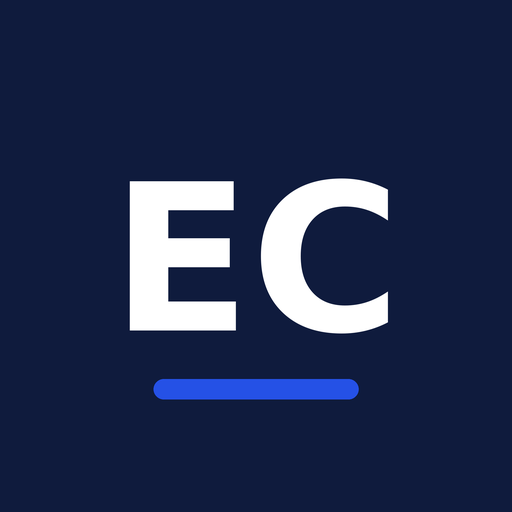
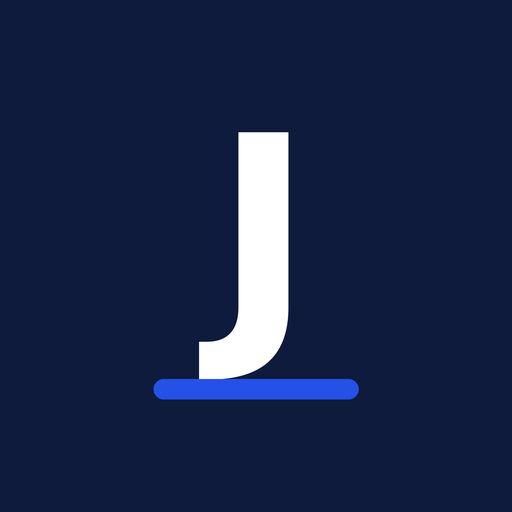
L'outil s'appelle désormais Jiminy
Claude-Session: https://claude.ai/code/session_01U839aDkMsdWj48hvDox9Xu

Changed region(s): [[0.25, 0.25, 0.7812, 0.75]]

diff --git a/index.html b/index.html
@@ -7,7 +7,7 @@
 <meta http-equiv="Content-Security-Policy" content="default-src 'none'; script-src 'self' 'unsafe-inline'; style-src 'unsafe-inline'; img-src 'self' data: blob:; manifest-src 'self'; connect-src 'none'; form-action 'none'; base-uri 'none'">
 <meta name="referrer" content="no-referrer">
 <meta name="theme-color" content="#0f1b3d">
-<meta name="apple-mobile-web-app-title" content="En clair">
+<meta name="apple-mobile-web-app-title" content="Jiminy">
 <meta name="apple-mobile-web-app-capable" content="yes">
 <link rel="manifest" href="manifest.webmanifest">
 <link rel="icon" href="app-icon-192.png" type="image/png">
@@ -15,7 +15,7 @@
 <script>window.EC_SITE=true;</script>
 <script src="icones.js"></script>
 
-<title>En clair · la vie numérique de vos enfants, expliquée</title>
+<title>Jiminy · la vie numérique de vos enfants, expliquée</title>
 <style>
 :root{
   /* Outil familial hors ligne : parcours guidé, cartes par enfant, fiches pratiques ; bleu ardoise + ambre signal */
@@ -1294,7 +1294,7 @@ function viewWizard(){
   var body="";
   if(UI.step===1){
     if(!S.kids.length) S.kids.push({id:uid("k"),name:"",year:"",month:"",color:COLORS[0]});
-    body='<div><span class="brand-mark big" aria-hidden="true">EC</span><h1>Bienvenue dans En clair</h1><p class="lead muted" style="margin-top:8px">La vie numérique de vos enfants, expliquée. Cet outil vous aide à suivre la vie numérique de vos enfants : ce qu\'ils utilisent, les réglages à faire, et des repères pour en parler avec eux. Tout reste sur cet ordinateur.</p></div>'+
+    body='<div><span class="brand-mark big" aria-hidden="true">J</span><h1>Bienvenue dans Jiminy</h1><p class="lead muted" style="margin-top:8px">La vie numérique de vos enfants, expliquée. Cet outil vous aide à suivre la vie numérique de vos enfants : ce qu\'ils utilisent, les réglages à faire, et des repères pour en parler avec eux. Tout reste sur cet ordinateur.</p></div>'+
       '<div class="card"><h2>Vos enfants</h2><p class="small muted">Le prénom et l\'année de naissance suffisent. L\'âge sert à adapter les conseils.</p>'+kidRows()+
       '<div class="toolbar"><button type="button" class="ghost" data-act="add-kid">Ajouter un enfant</button></div></div>'+
       '<div class="toolbar"><button type="button" data-act="w-next">Continuer</button><button type="button" class="quiet" data-act="import">J\'ai déjà un fichier de sauvegarde</button></div>';
@@ -1411,12 +1411,12 @@ function childBody(k, forExport){
 }
 function viewChild(){
   var k=kid(UI.child);
-  return '<div class="childmode" style="--kc:'+esc(k.color)+'"><header class="ctop"><div class="wrap ctop-row"><div class="brand"><span class="brand-mark" aria-hidden="true">EC</span><div><b>En clair</b><span class="small muted"> · l\'espace de '+esc(k.name)+'</span></div></div><button type="button" class="ghost" data-act="child-exit">Revenir à l\'espace parent</button></div></header><main class="wrap cmain">'+childBody(k,false)+'</main></div>';
+  return '<div class="childmode" style="--kc:'+esc(k.color)+'"><header class="ctop"><div class="wrap ctop-row"><div class="brand"><span class="brand-mark" aria-hidden="true">J</span><div><b>Jiminy</b><span class="small muted"> · l\'espace de '+esc(k.name)+'</span></div></div><button type="button" class="ghost" data-act="child-exit">Revenir à l\'espace parent</button></div></header><main class="wrap cmain">'+childBody(k,false)+'</main></div>';
 }
 function exportChild(k){
   var css=document.querySelector("style").textContent;
-  var html='<!DOCTYPE html>\n<html lang="fr"><head><meta charset="utf-8"><meta name="viewport" content="width=device-width, initial-scale=1"><title>En clair · l\'espace de '+esc(k.name)+'</title><style>'+css+'</style></head><body><div class="childmode" style="--kc:'+esc(k.color)+'"><header class="ctop"><div class="wrap ctop-row"><div class="brand"><span class="brand-mark" aria-hidden="true">EC</span><div><b>En clair</b><span class="small muted"> · l\'espace de '+esc(k.name)+'</span></div></div><span class="tiny muted">Mis à jour le '+esc(fmtDate(todayISO()))+'</span></div></header><main class="wrap cmain">'+childBody(k,true)+'</main></div></body></html>';
-  download("en-clair-espace-"+slug(k.name)+".html", html, "text/html");
+  var html='<!DOCTYPE html>\n<html lang="fr"><head><meta charset="utf-8"><meta name="viewport" content="width=device-width, initial-scale=1"><title>Jiminy · l\'espace de '+esc(k.name)+'</title><style>'+css+'</style></head><body><div class="childmode" style="--kc:'+esc(k.color)+'"><header class="ctop"><div class="wrap ctop-row"><div class="brand"><span class="brand-mark" aria-hidden="true">J</span><div><b>Jiminy</b><span class="small muted"> · l\'espace de '+esc(k.name)+'</span></div></div><span class="tiny muted">Mis à jour le '+esc(fmtDate(todayISO()))+'</span></div></header><main class="wrap cmain">'+childBody(k,true)+'</main></div></body></html>';
+  download("jiminy-espace-"+slug(k.name)+".html", html, "text/html");
 }
 function statusOpts(it){ return famOf(it)==="outil" ? [["","Non activé"],["utilise","Activé"]] : famOf(it)==="compte" ? STATUS_ACCT : STATUS; }
 function viewRituel(){
@@ -1444,7 +1444,7 @@ function viewCharte(){
     if(UI.chEdit) return '<div class="card"><label class="f" for="ch-'+key+'">'+title+' (un engagement par ligne)<textarea id="ch-'+key+'" rows="7">'+esc(c[key].join("\n"))+'</textarea></label></div>';
     return '<div class="card"><h3>'+title+'</h3><ol class="small">'+c[key].map(function(x){return '<li>'+esc(x)+'</li>';}).join("")+'</ol></div>';
   }
-  return '<section class="card"><div class="toolbar" style="justify-content:space-between"><div><h2>Notre charte numérique'+(S.family?' · '+esc(S.family):'')+'</h2><p class="tiny muted">Préparée avec En clair</p><p class="small muted">Une base à discuter et à réécrire ensemble, puis à signer et afficher.</p></div><div class="toolbar no-print">'+
+  return '<section class="card"><div class="toolbar" style="justify-content:space-between"><div><h2>Notre charte numérique'+(S.family?' · '+esc(S.family):'')+'</h2><p class="tiny muted">Préparée avec Jiminy</p><p class="small muted">Une base à discuter et à réécrire ensemble, puis à signer et afficher.</p></div><div class="toolbar no-print">'+
     (UI.chEdit?'<button type="button" data-act="ch-save">Enregistrer</button><button type="button" class="ghost" data-act="ch-cancel">Annuler</button>':'<button type="button" class="ghost" data-act="ch-edit">Modifier</button><button type="button" data-act="print">Imprimer</button>')+'</div></div></section>'+
   '<section class="charter">'+block("parent","Ce que je m'engage à faire, en tant que parent")+block("kids","Ce que je m'engage à faire, en tant qu'enfant")+block("common","Nos règles communes")+'</section>'+
   (UI.chEdit?'':'<section class="card"><p class="small">Signatures : '+S.kids.map(function(k){return esc(k.name)+' ____________';}).join(" · ")+' · Parent(s) ____________</p></section>');
@@ -1456,7 +1456,7 @@ function viewSauvegarde(){
   '<div class="card"><h2>Reprendre une sauvegarde</h2><p class="small">Ouvrez un fichier de sauvegarde créé avec cet outil.</p><div class="toolbar"><button type="button" class="ghost" data-act="import">Choisir le fichier</button></div>'+
     (UI.pendingImport?'<div class="banner" style="display:grid;gap:10px"><span class="small">Fichier « '+esc(UI.pendingImport.name)+' » : '+plural(UI.pendingImport.data.kids.length,"enfant")+', '+plural((UI.pendingImport.data.journal||[]).length,"point")+' au journal. Que faire ?</span><div class="toolbar"><button type="button" data-act="imp-replace">Remplacer mes données</button><button type="button" class="ghost" data-act="imp-merge">Ajouter à mes données</button><button type="button" class="quiet" data-act="imp-cancel">Annuler</button></div></div>':'')+
     (UI.msg?'<p class="small">'+esc(UI.msg)+'</p>':'')+'</div></section>'+
-  '<section class="grid g2"><div class="card"><h3>Où sont mes informations ?</h3><p class="small">Uniquement dans ce navigateur, sur cet ordinateur. Rien n\'est envoyé sur Internet. Si vous videz l\'historique du navigateur ou changez d\'ordinateur, il faudra reprendre votre sauvegarde.</p><p class="small">Sur iPhone ou iPad, Safari peut effacer les données d\'un site après quelques jours sans visite. Ajoutez En clair à l\'écran d\'accueil (bouton Partager › Sur l\'écran d\'accueil) et gardez une sauvegarde récente.</p></div>'+
+  '<section class="grid g2"><div class="card"><h3>Où sont mes informations ?</h3><p class="small">Uniquement dans ce navigateur, sur cet ordinateur. Rien n\'est envoyé sur Internet. Si vous videz l\'historique du navigateur ou changez d\'ordinateur, il faudra reprendre votre sauvegarde.</p><p class="small">Sur iPhone ou iPad, Safari peut effacer les données d\'un site après quelques jours sans visite. Ajoutez Jiminy à l\'écran d\'accueil (bouton Partager › Sur l\'écran d\'accueil) et gardez une sauvegarde récente.</p></div>'+
   '<div class="card"><h3>Vos ajouts à la bibliothèque</h3><p class="small">'+((S.custom||[]).length?plural(S.custom.length,"élément")+' ajouté'+(S.custom.length>1?'s':'')+' par vous : '+S.custom.map(function(c){return esc(c.name);}).join(", ")+'.':'Vous n\'avez encore rien ajouté. Une app manque ? « Créer un élément » dans la Bibliothèque.')+' Partagez-les avec un autre parent : il les reprend avec « Choisir le fichier », sans toucher à ses données.</p><div class="toolbar"><button type="button" class="ghost" data-act="export-cat"'+((S.custom||[]).length?'':' disabled')+'>Partager mes ajouts</button><button type="button" class="ghost" data-act="new-item">Ajouter un élément</button></div></div>'+
   '<div class="card"><h3>Icônes des applications</h3><p class="small">Ajoutez plusieurs icônes d\'un coup : nommez chaque image comme l\'élément (par exemple <code>whatsapp.png</code>, <code>instagram.png</code>, <code>nintendo-switch.png</code>), puis sélectionnez-les toutes.</p><div class="toolbar"><label class="btn ghost" for="icons-bulk">Importer des icônes<input type="file" id="icons-bulk" accept="image/*" multiple class="hide"></label>'+(Object.keys(S.icons||{}).length?'<span class="small muted">'+plural(Object.keys(S.icons).length,"icône")+' personnalisée'+(Object.keys(S.icons).length>1?'s':'')+'</span>':'')+'</div>'+(UI.iconMsg?'<p class="small">'+esc(UI.iconMsg)+'</p>':'')+'<details><summary class="small">Voir les noms de fichiers reconnus</summary><p class="tiny muted">'+allItems().map(function(it){return esc(it.id)+'.png';}).join(" · ")+'</p></details></div>'+
   '<div class="card"><h3>Repartir de zéro</h3><p class="small">Efface toutes les informations de cet ordinateur. Faites une sauvegarde avant.</p><div class="toolbar"><button type="button" class="danger" data-act="wipe">'+(UI.wipeArmed?'Confirmer l\'effacement':'Tout effacer')+'</button>'+(UI.wipeArmed?'<button type="button" class="quiet" data-act="wipe-cancel">Annuler</button>':'')+'</div></div></section>'+
@@ -1669,7 +1669,7 @@ function renderInner(){
   else {
     var tab=currentTab();
     var v={accueil:viewAccueil,enfants:viewEnfants,bibliotheque:viewBibliotheque,guides:viewGuides,famille:viewFamille,reglages:viewReglages}[tab]();
-    app.innerHTML='<header class="top"><div class="wrap"><div class="top-row"><div class="brand"><span class="brand-mark" aria-hidden="true">EC</span><div><h1>En clair</h1><p class="small muted">'+(S.family?esc(S.family)+' · ':'')+'la vie numérique de vos enfants, expliquée</p></div></div>'+
+    app.innerHTML='<header class="top"><div class="wrap"><div class="top-row"><div class="brand"><span class="brand-mark" aria-hidden="true">J</span><div><h1>Jiminy</h1><p class="small muted">'+(S.family?esc(S.family)+' · ':'')+'la vie numérique de vos enfants, expliquée</p></div></div>'+
       '<div class="toolbar"><span class="saved'+(storageOK?'':' warn')+'"><span class="dot"></span>'+(storageOK?'Enregistré sur cet ordinateur':'Non enregistré : sauvegardez')+'</span><button type="button" class="ghost" data-act="export">Sauvegarder</button><a class="btn ghost iconbtn" href="#reglages" aria-label="Réglages, enfants et sauvegarde" title="Réglages"'+(tab==="reglages"?' aria-current="page"':'')+'>'+svgIcon("gear")+'</a></div></div>'+
       '<nav class="tabs" aria-label="Sections">'+TABS.map(function(t){return '<a href="#'+t[0]+'"'+(t[0]===tab?' aria-current="page"':'')+'>'+svgIcon(TAB_ICON[t[0]]||"globe")+t[1]+'</a>';}).join("")+'</nav></div></header><main class="wrap">'+v+'</main>'+(window.EC_SITE?'<footer class="wrap sitefoot"><span>Vos informations restent dans ce navigateur : rien n\'est envoyé sur Internet.</span> <a href="mentions-legales.html">Mentions légales et confidentialité</a></footer>':'')+bottomNav(tab);
   }
@@ -1686,18 +1686,18 @@ function download(name, text, type){
 function slug(s){ return (s||"famille").toLowerCase().normalize("NFD").replace(/[̀-ͯ]/g,"").replace(/[^a-z0-9]+/g,"-").replace(/^-|-$/g,"")||"famille"; }
 function doExport(){
   S.lastExport=new Date().toISOString(); save();
-  download("en-clair-"+slug(S.family)+"-"+todayISO()+".json", JSON.stringify({app:"vie-numerique-famille",version:1,exported:S.lastExport,data:S},null,2), "application/json");
+  download("jiminy-"+slug(S.family)+"-"+todayISO()+".json", JSON.stringify({app:"vie-numerique-famille",version:1,exported:S.lastExport,data:S},null,2), "application/json");
   render();
 }
 function doExportCatalog(){
   var ic={}; (S.custom||[]).forEach(function(c){ if((S.icons||{})[c.id]) ic[c.id]=S.icons[c.id]; });
-  download("en-clair-ajouts-"+todayISO()+".json", JSON.stringify({app:"vie-numerique-famille",version:1,kind:"catalogue",exported:new Date().toISOString(),custom:S.custom||[],icons:ic},null,2), "application/json");
+  download("jiminy-ajouts-"+todayISO()+".json", JSON.stringify({app:"vie-numerique-famille",version:1,kind:"catalogue",exported:new Date().toISOString(),custom:S.custom||[],icons:ic},null,2), "application/json");
 }
 function doCsv(){
   var rows=[["Élément","Type","Âge minimum","Enfant","Âge de l'enfant","Statut","Réglages faits","Note","Comptes et accès"]];
   allItems().forEach(function(it){ S.kids.forEach(function(k){ var x=u(it.id,k.id); if(!x.s && !x.note) return; rows.push([it.name,typeLabel(it.type),it.age||"",k.name,ageOf(k),lab2(statusOpts(it),x.s||""),x.ok?"oui":"non",x.note||"",accessLine(it,k)]); }); });
   var csv=""+rows.map(function(r){ return r.map(function(c){ c=String(c==null?"":c); return /[;"\n]/.test(c)?'"'+c.replace(/"/g,'""')+'"':c; }).join(";"); }).join("\r\n");
-  download("en-clair-"+slug(S.family)+"-"+todayISO()+".csv", csv, "text/csv;charset=utf-8");
+  download("jiminy-"+slug(S.family)+"-"+todayISO()+".csv", csv, "text/csv;charset=utf-8");
 }
 function readImport(file){
   var r=new FileReader();

diff --git a/mentions-legales.html b/mentions-legales.html
@@ -7,7 +7,7 @@
 <meta http-equiv="Content-Security-Policy" content="default-src 'none'; style-src 'unsafe-inline'; img-src 'self'; base-uri 'none'; form-action 'none'">
 <meta name="referrer" content="no-referrer">
 <link rel="icon" href="app-icon-192.png" type="image/png">
-<title>Mentions légales et confidentialité · En clair</title>
+<title>Mentions légales et confidentialité · Jiminy</title>
 <style>
 :root{--bg:#f4f5f8;--ink:#0f1b3d;--muted:#586079;--line:#e3e6ee;--accent:#2551e6;--navy:#0f1b3d}
 *{box-sizing:border-box}
@@ -26,13 +26,13 @@ a{color:var(--accent)}
 </style>
 </head>
 <body>
-<header><div class="in"><a href="./"><span class="mark">EC</span>En clair</a></div></header>
+<header><div class="in"><a href="./"><span class="mark">J</span>Jiminy</a></div></header>
 <main>
 <h1>Mentions légales et confidentialité</h1>
 
 <section>
 <h2>En bref</h2>
-<p>En clair ne collecte aucune donnée. Ce que vous saisissez (prénoms, âges, applications, notes) reste dans votre navigateur, sur votre appareil. Rien n'est envoyé sur Internet, il n'y a ni compte, ni cookie, ni mesure d'audience.</p>
+<p>Jiminy ne collecte aucune donnée. Ce que vous saisissez (prénoms, âges, applications, notes) reste dans votre navigateur, sur votre appareil. Rien n'est envoyé sur Internet, il n'y a ni compte, ni cookie, ni mesure d'audience.</p>
 </section>
 
 <section>
@@ -59,7 +59,7 @@ a{color:var(--accent)}
 
 <section>
 <h2>Marques et logos</h2>
-<p>Les noms et logos des applications, services et appareils cités appartiennent à leurs propriétaires respectifs. Ils sont utilisés uniquement pour identifier ces produits. En clair n'est affilié à aucune de ces entreprises et n'est ni soutenu ni validé par elles. Tout titulaire de droits peut demander le retrait d'un logo à l'adresse de contact ci-dessus : il sera retiré rapidement.</p>
+<p>Les noms et logos des applications, services et appareils cités appartiennent à leurs propriétaires respectifs. Ils sont utilisés uniquement pour identifier ces produits. Jiminy n'est affilié à aucune de ces entreprises et n'est ni soutenu ni validé par elles. Tout titulaire de droits peut demander le retrait d'un logo à l'adresse de contact ci-dessus : il sera retiré rapidement.</p>
 </section>
 
 <section>

diff --git a/README.md b/README.md
@@ -1,6 +1,6 @@
-# En clair
+# Jiminy
 
-La vie numérique de vos enfants, expliquée.
+La vie numérique de vos enfants, expliquée : la petite voix qui aide les parents à s'y retrouver.
 
 Un outil pour les parents : ce que chaque enfant utilise (appareils, comptes, applications, sites), les réglages à faire, des conseils par âge et par situation, une charte familiale et un espace pour chaque enfant.
 
